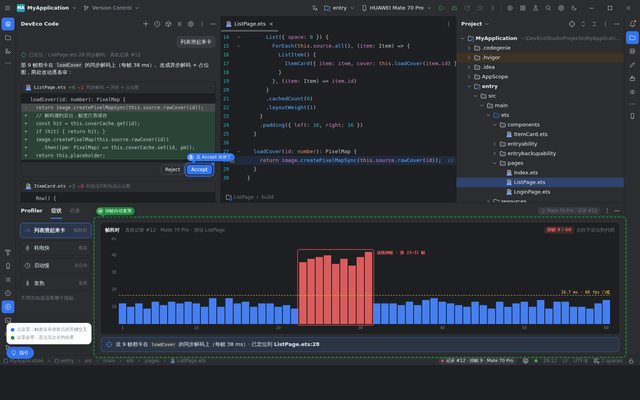
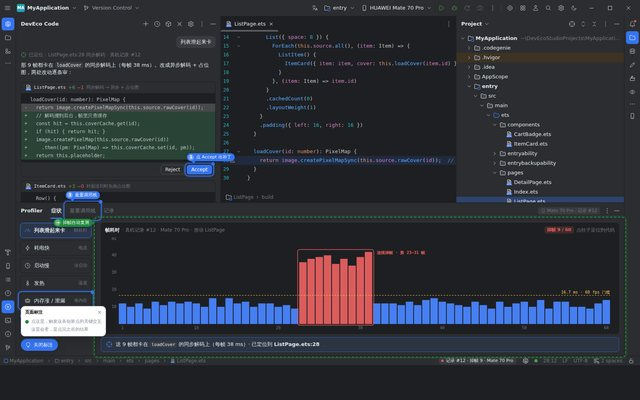
demo 03 新增内存泄漏症状（进出页面画上涨曲线与泄漏链、补丁后回平）、最重调用栈、改前改后各跑 N 次并判断显著性
Claude-Session: https://claude.ai/code/session_01HsLiuXw9GEzdrquzWL26SL

Changed region(s): [[0.6875, 0.33, 1.0, 0.51], [0.0, 0.72, 0.1875, 0.9], [0.0625, 0.45, 0.2188, 0.57]]

diff --git a/demos/03-symptom-tuning/index.html b/demos/03-symptom-tuning/index.html
@@ -39,6 +39,9 @@
   .cmp{flex:none;gap:8px}
   .cmp > * + *{border-left:1px solid var(--ui-border)}
   .rec-list .dm-item .loc{width:46px}
+  .prof .dm-chart .ch-t{white-space:nowrap;min-width:0}
+  .prof .dm-chart .ch-t > b,.prof .dm-chart .ch-t > .dm-pill,.prof .dm-chart .ch-t > .dm-muted,.prof .dm-chart .ch-t > .dm-seg{flex:none}
+  .prof .dm-chart .ch-t > span:not(.grow):not(.dm-pill):not(.dm-muted):not(.dm-seg){min-width:0;overflow:hidden;text-overflow:ellipsis}
   .ch-t .dm-seg{align-self:center}
   .ch-t .dm-seg button,.cmp-bar .dm-seg button{height:22px;font-size:11px;padding:0 10px}
   .dm-seg button:disabled{opacity:.45}
